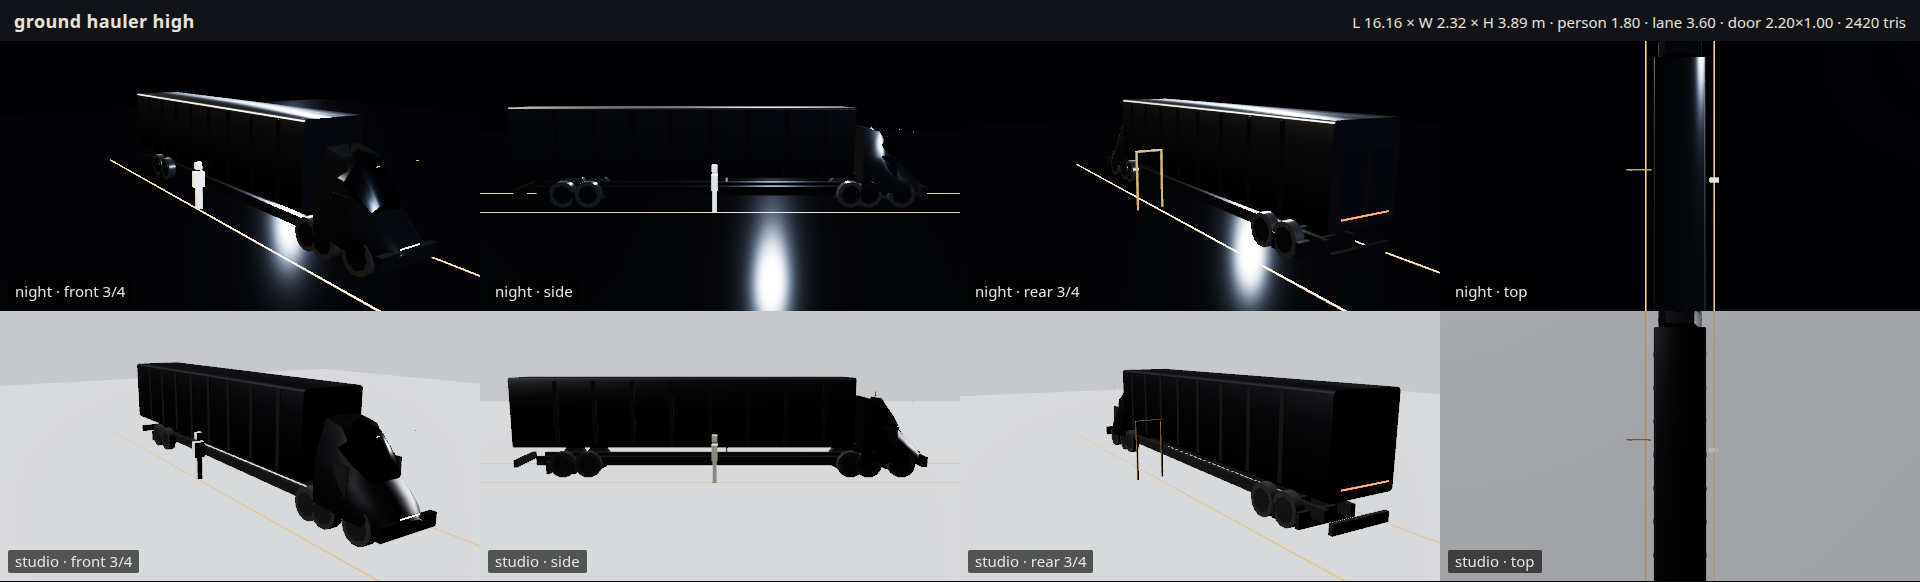
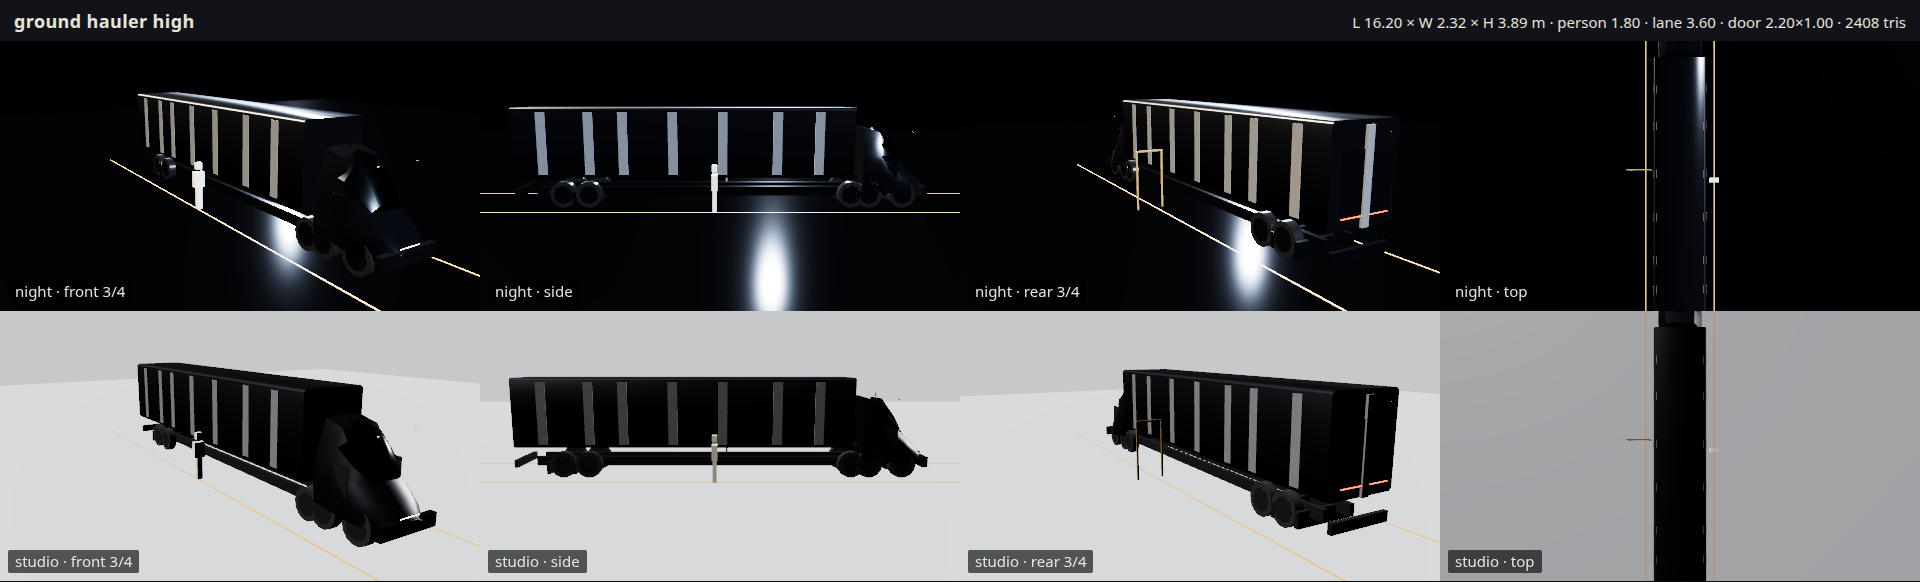
Break the hauler box with ribs and a rear seam.
Light vertical ribs, spaced unevenly, and a full-height split on the tail face. The trailer stays 2.32 m wide, inside the curb.

diff --git a/tools/scale-audit/measure.ts b/tools/scale-audit/measure.ts
@@ -309,7 +309,7 @@ function anchors(): void {
   must(vehicles, 'export const CAR_L = 5.06', 'vehicleModels.ts');
   must(vehicles, 'export const CAR_W = 1.78', 'vehicleModels.ts');
   must(vehicles, 'export const CAR_H = 1.466', 'vehicleModels.ts');
-  must(vehicles, 'export const HAULER_L = 16.159', 'vehicleModels.ts');
+  must(vehicles, 'export const HAULER_L = 16.2', 'vehicleModels.ts');
   must(vehicles, 'export const HAULER_W = 2.316', 'vehicleModels.ts');
   must(vehicles, 'export const HAULER_H = 3.887', 'vehicleModels.ts');
   must(vehicles, 'car: CAR_L', 'vehicleModels.ts');

diff --git a/src/vehicles/vehicleModels.ts b/src/vehicles/vehicleModels.ts
@@ -24,7 +24,7 @@ export type VehicleLod = 'low' | 'medium' | 'high';
 export const CAR_L = 5.06;
 export const CAR_W = 1.78;
 export const CAR_H = 1.466;
-export const HAULER_L = 16.159;
+export const HAULER_L = 16.2;
 export const HAULER_W = 2.316;
 export const HAULER_H = 3.887;
 

diff --git a/tools/model-harness/blender/build_traffic.py b/tools/model-harness/blender/build_traffic.py
@@ -480,21 +480,22 @@ def dress_hauler(kit, lod):
     place(kit, kit.panel_inset('cab-door-l', 0.62, 0.85, bolts=lod == 'high'), (-1.02, 6.55, 1.65), (-1, 0, 0.04))
     place(kit, kit.panel_inset('cab-door-r', 0.62, 0.85, bolts=lod == 'high'), (1.02, 6.55, 1.65), (1, 0, 0.04))
     place(kit, kit.vent('cab-vent', 0.28, 0.10, 0.018, 4 if lod == 'high' else 2), (0.0, 7.35, 1.35), (0, 0.3, 1))
-    # Vertical ribs. 18 cm fore-aft so a side view at street distance sees a post, not a pixel.
-    # Both ends are ordered: a negative sign would otherwise collapse the box to a hairline.
+    # Light ribs, uneven, wide enough to break the box when the sheet is viewed whole.
     # Outer face stays at 1.158 m, inside the 1.165 m curb clearance.
-    rib_n = 8 if lod == 'high' else 4
-    for i in range(rib_n):
-        y = -6.2 + i * (10.2 / max(1, rib_n - 1))
+    steel = trim_mat()
+    stations = (-6.8, -5.0, -3.7, -1.8, 0.1, 2.2, 3.8) if lod == 'high' else (-5.6, -2.0, 2.6)
+    for i, y in enumerate(stations):
         for sign in (-1, 1):
-            inner, outer = sign * 1.05, sign * 1.158
+            inner, outer = sign * 1.02, sign * 1.158
             lo_x, hi_x = (inner, outer) if inner < outer else (outer, inner)
             box(
                 f'rib-{sign:+d}-{i}',
-                (lo_x, y - 0.09, 1.32),
-                (hi_x, y + 0.09, 3.78),
-                kit.recess,
+                (lo_x, y - 0.18, 1.35),
+                (hi_x, y + 0.18, 3.75),
+                steel,
             )
+    # Full-height split between the rear doors. Proud of the tail by a few centimetres.
+    box('rear-seam', (-0.12, tail - 0.06, 1.25), (0.12, tail + 0.02, 3.78), steel)
     place(kit, kit.panel_inset('rear-door-l', 0.85, 1.6, bolts=False), (-0.48, tail, 2.40), (0, -1, 0))
     place(kit, kit.panel_inset('rear-door-r', 0.85, 1.6, bolts=False), (0.48, tail, 2.40), (0, -1, 0))
     if lod != 'high':
